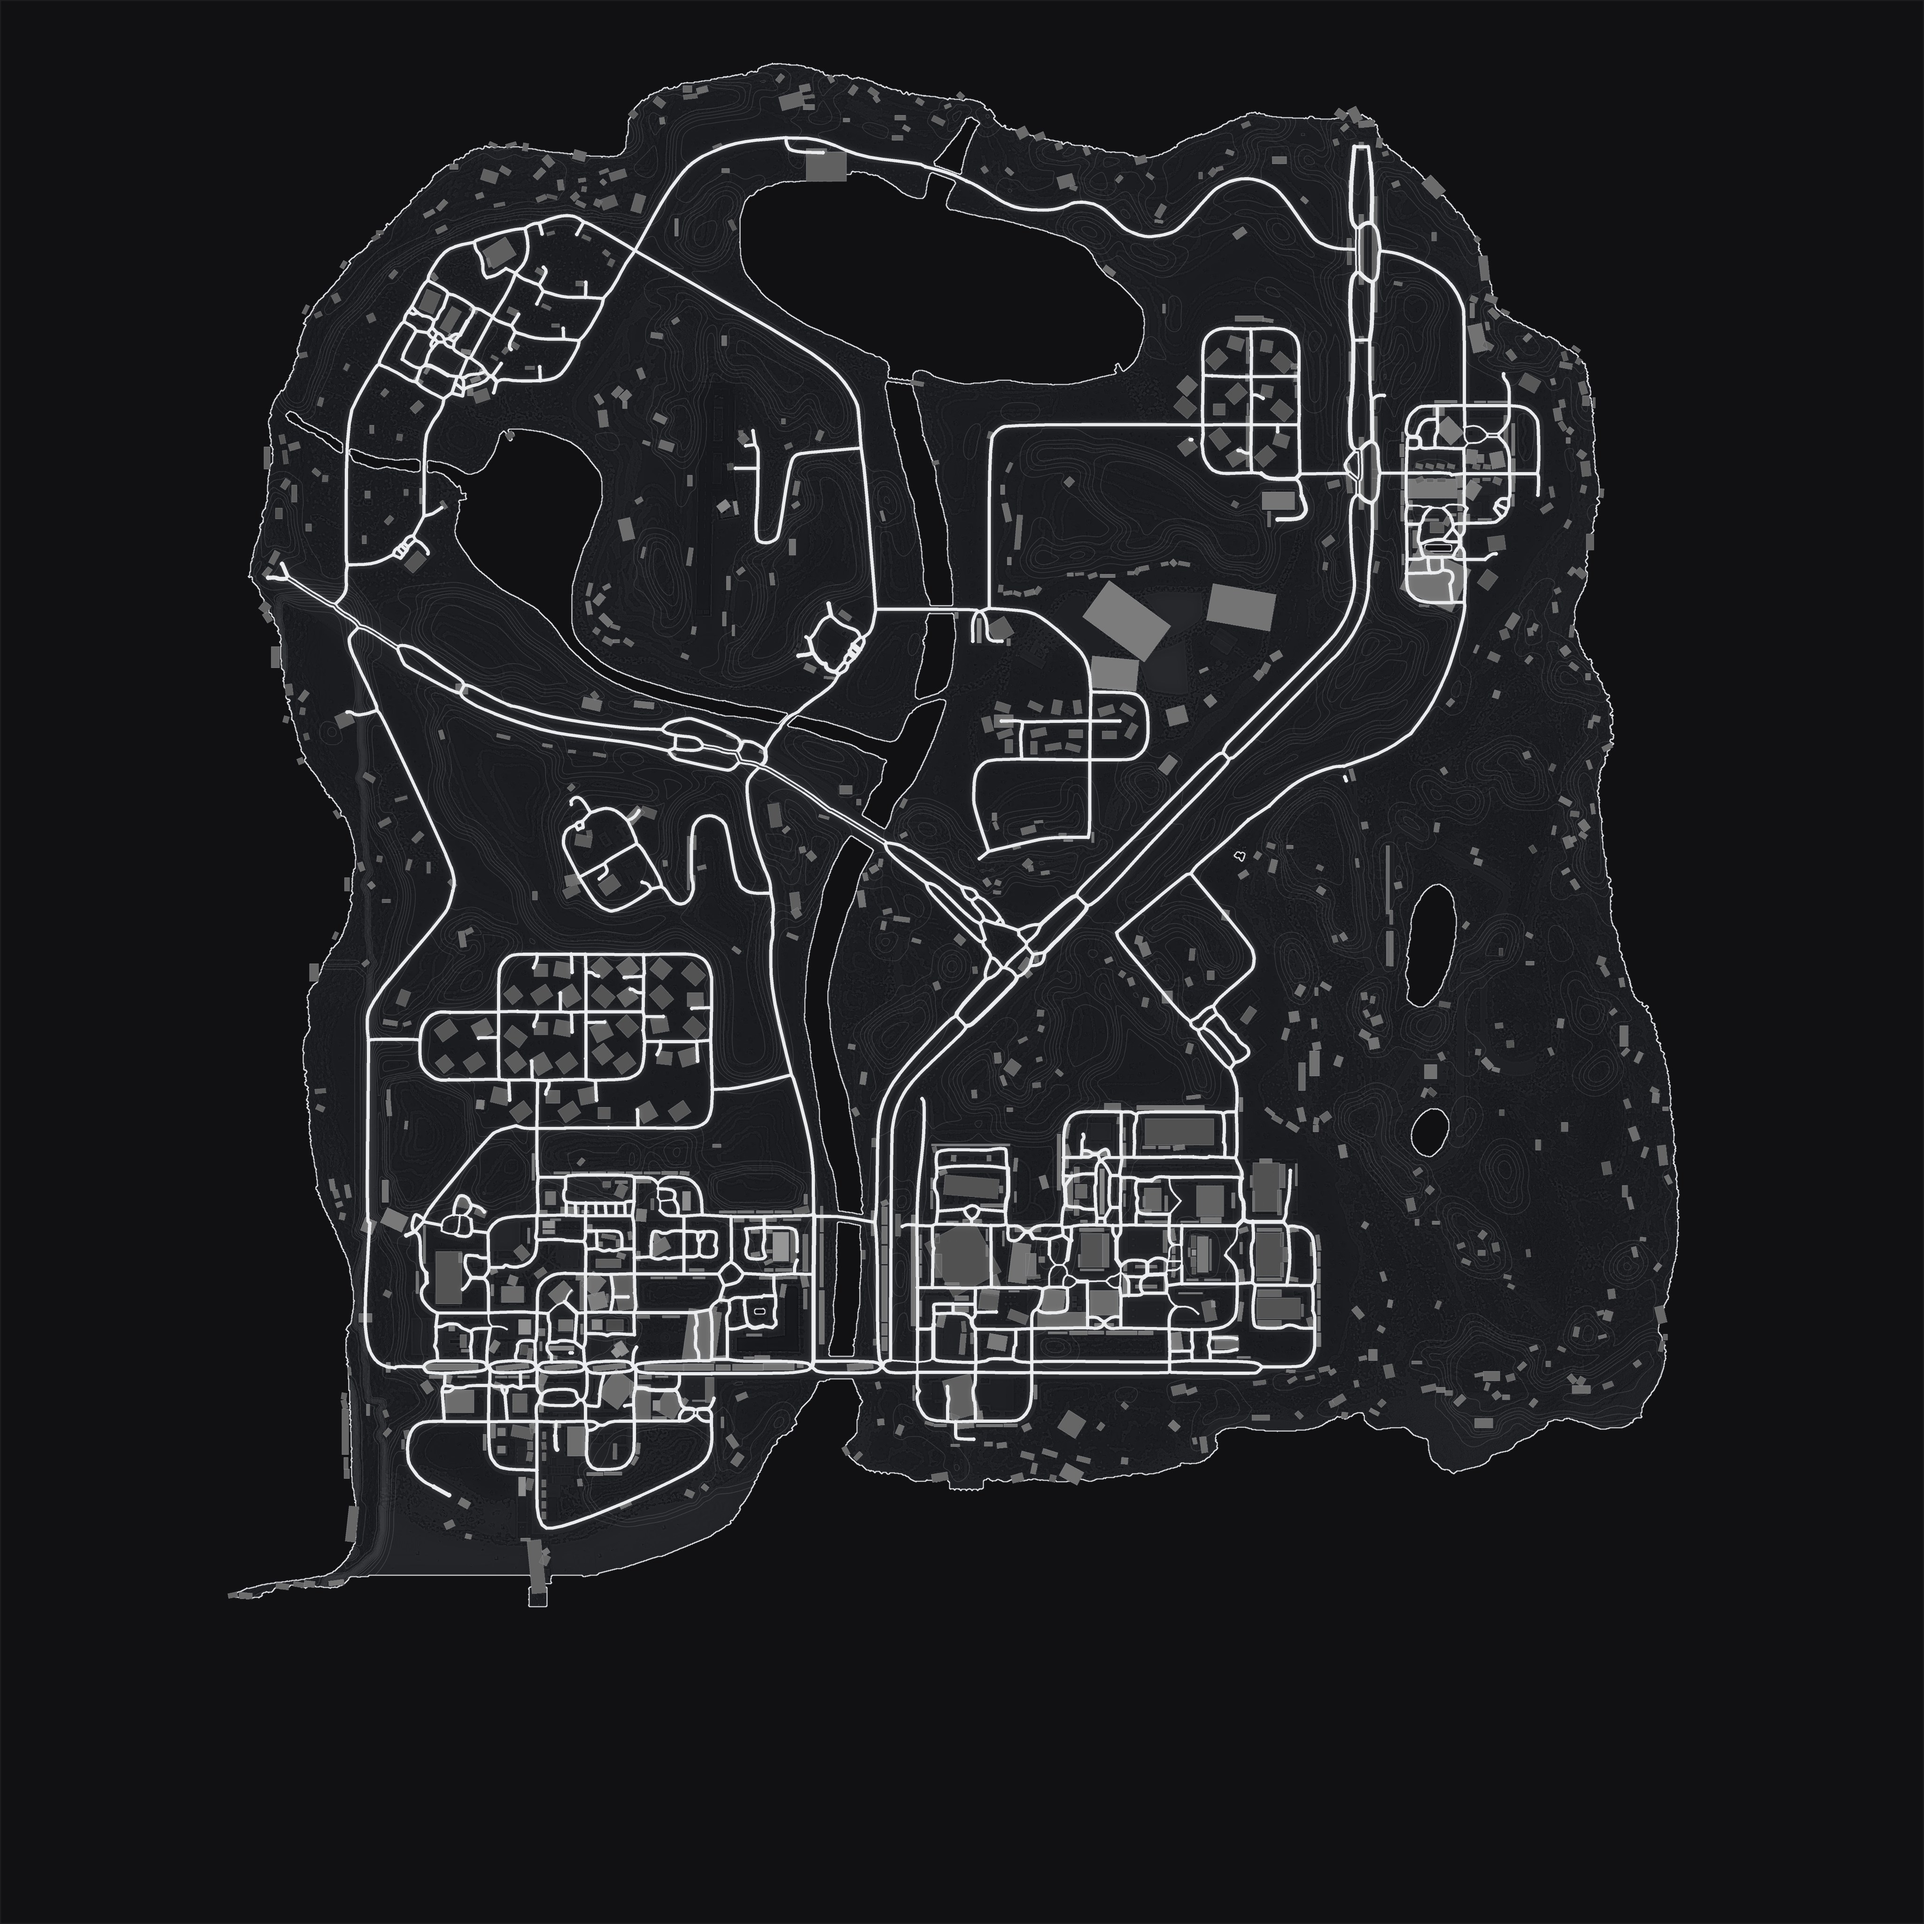
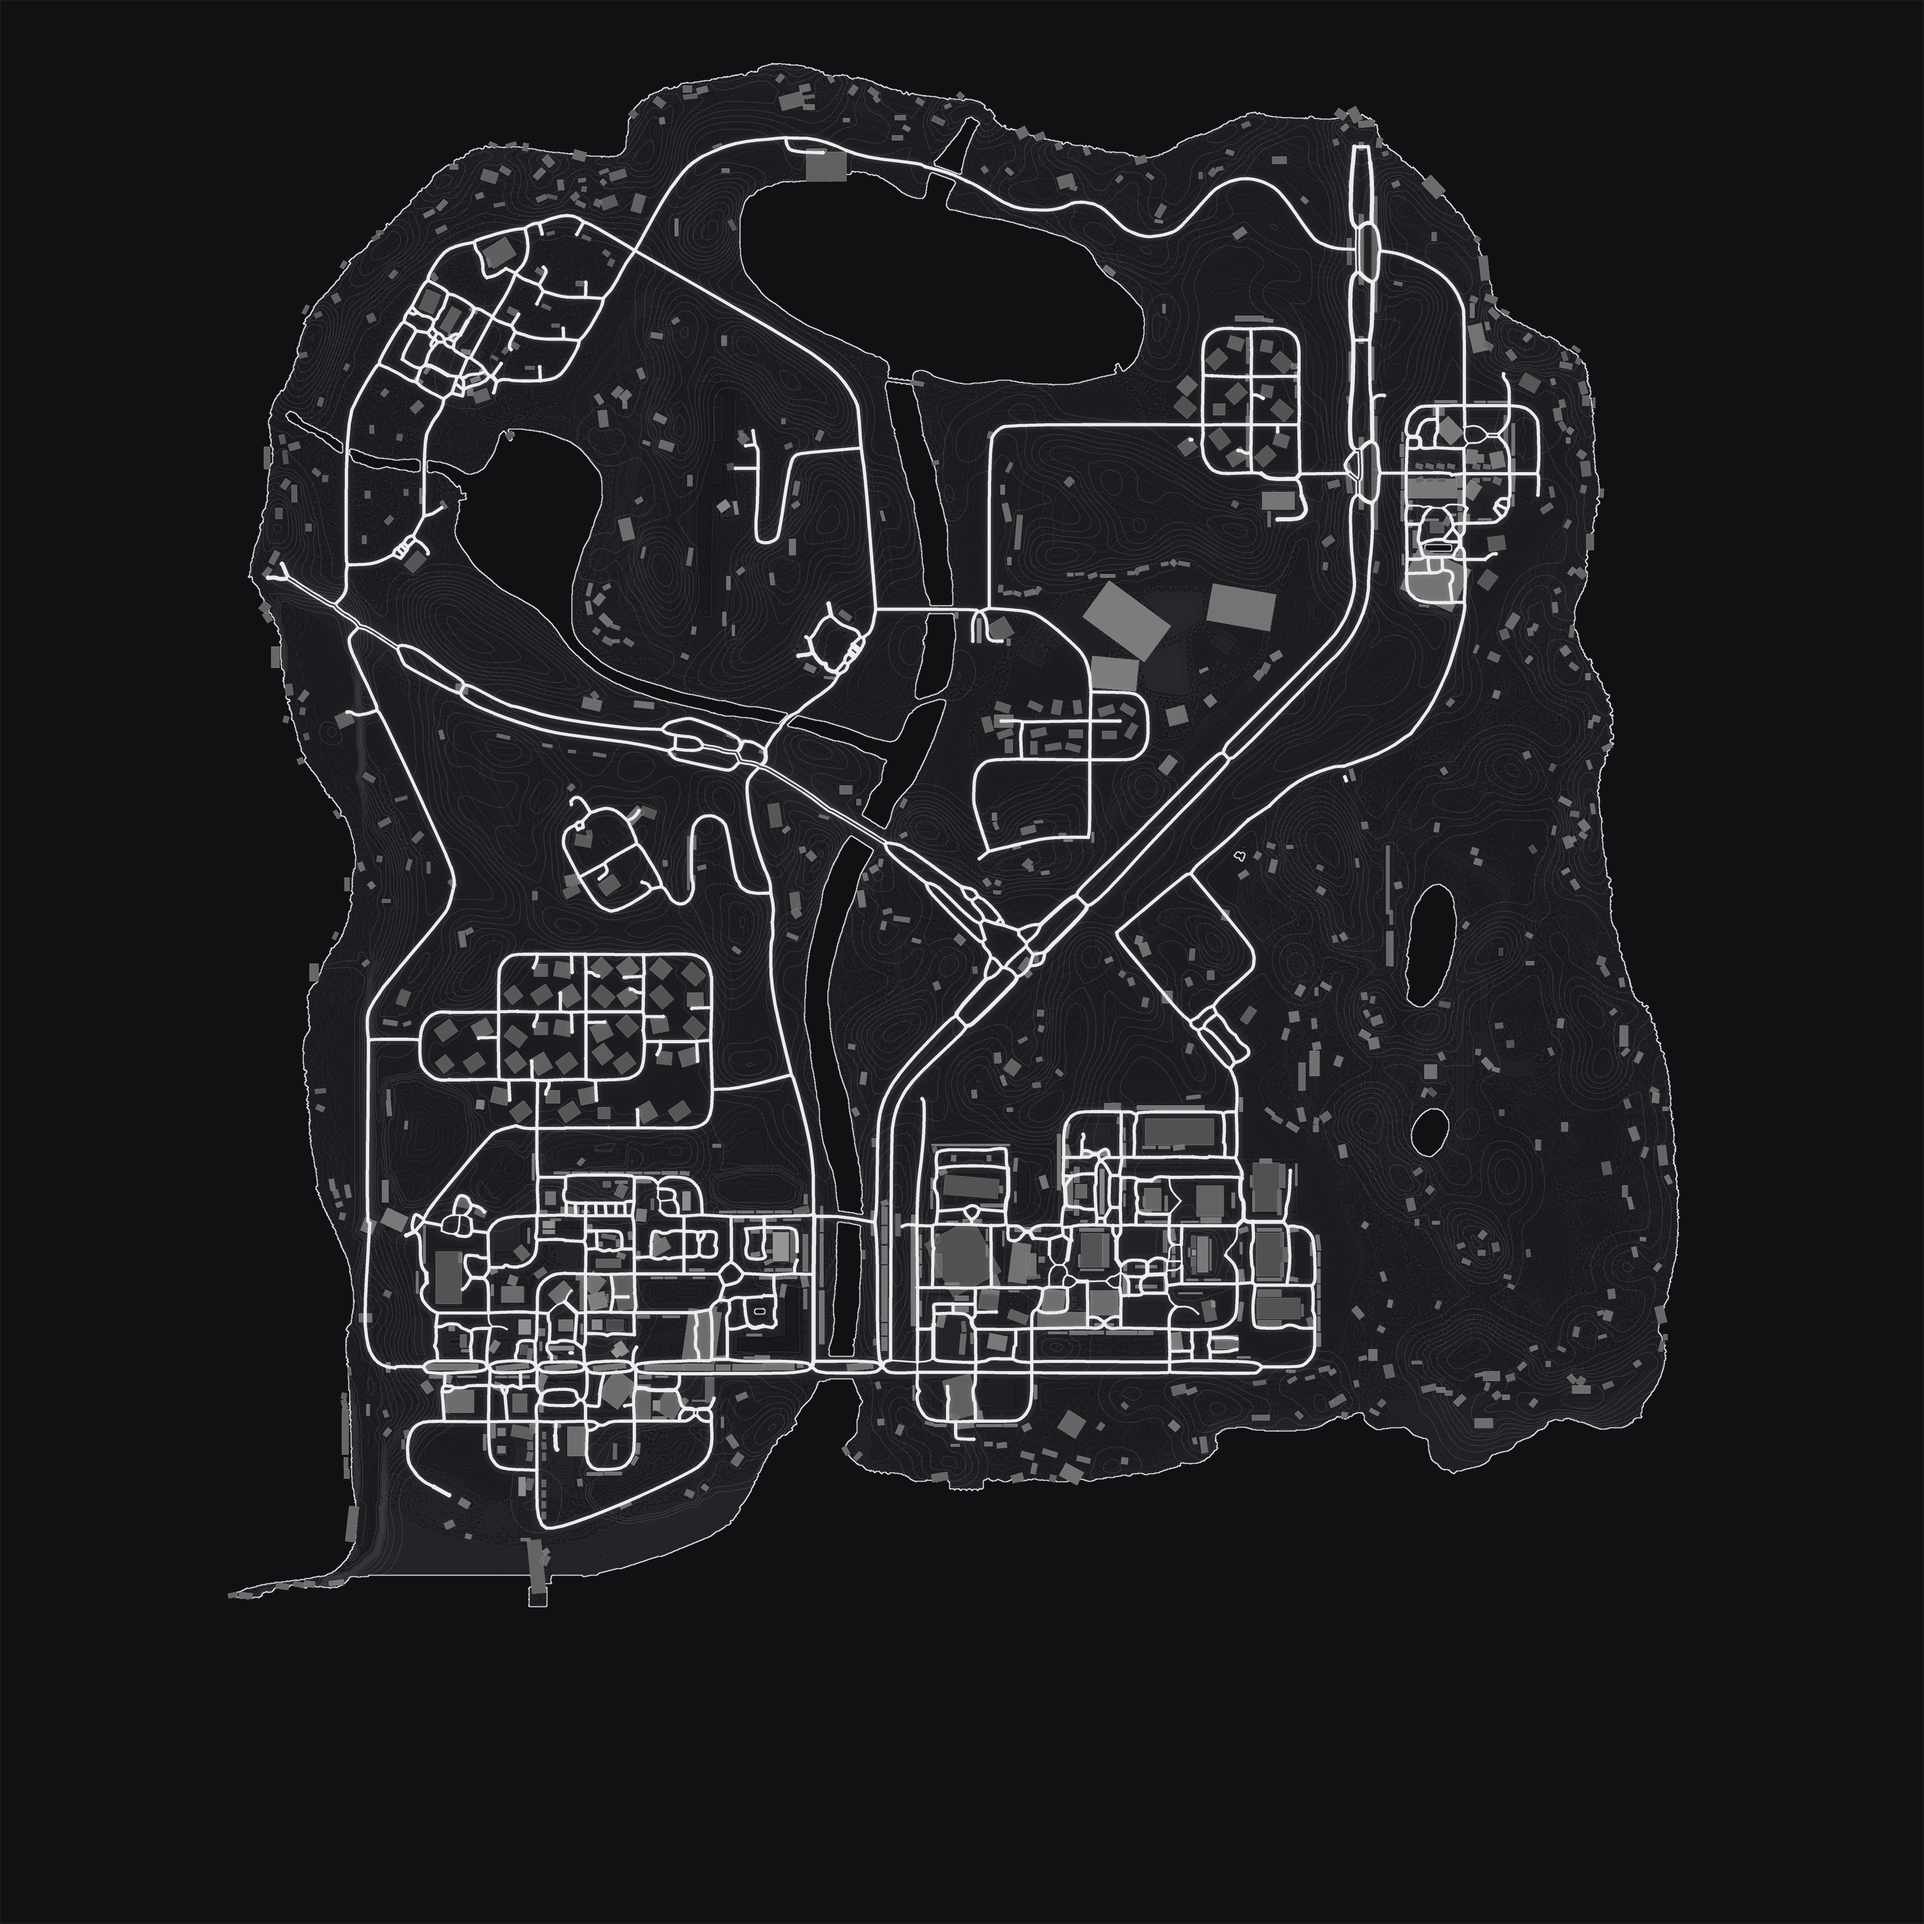
3D terrain from the map's rock ledges: hills where the ledge rings are, hilltops inside them
Each grey rock line on the official map is a ledge; rings nest like contours. ledge-terrain.py turns ledge
density into hills and fills basins so ring interiors become hilltops (rivers and lakes stay low), replacing the
guessed region heights. Dark map contours rebuilt to match; flyTo takes an optional camera tilt.

Claude-Session: https://claude.ai/code/session_01C1aya8uT8Zw6d2kYm4aDAx

Changed region(s): [[0.1875, 0.4375, 0.2188, 0.5], [0.1875, 0.7188, 0.2188, 0.75], [0.1875, 0.5312, 0.2188, 0.5625]]

diff --git a/preview/live-map-3d.html b/preview/live-map-3d.html
@@ -4995,7 +4995,8 @@ const frame = () => {
 let active = false;
 const setActive = on => { if (on === active) return; active = on; renderer.setAnimationLoop(on ? frame : null); if (on) { clock.getDelta(); resize(); } };
 let flight = null;
-const flyTo = (x, z, dist = 520, az = 0.9, smooth = false) => { const y = heightAt(x, z); const T = new THREE.Vector3(x, y, z), P = new THREE.Vector3(x + Math.sin(az) * dist * 0.75, y + dist * 0.62, z + Math.cos(az) * dist * 0.75);
+const flyTo = (x, z, dist = 520, az = 0.9, smooth = false, tilt = 0.69) => { const y = heightAt(x, z), hz = Math.cos(tilt) * dist * 0.97, up = Math.sin(tilt) * dist * 0.97;   // tilt: radians above the horizon (0.69 = the usual view)
+  const T = new THREE.Vector3(x, y, z), P = new THREE.Vector3(x + Math.sin(az) * hz, y + up, z + Math.cos(az) * hz);
   if (!smooth) { controls.target.copy(T); camera.position.copy(P); controls.update(); return; }
   follow = false; flight = { t0: performance.now(), ms: 900, T0: controls.target.clone(), P0: camera.position.clone(), T, P }; };
 const rayc = new THREE.Raycaster(), ndc = new THREE.Vector2();

diff --git a/preview/live-map-3d.src.js b/preview/live-map-3d.src.js
@@ -357,7 +357,8 @@ const frame = () => {
 let active = false;
 const setActive = on => { if (on === active) return; active = on; renderer.setAnimationLoop(on ? frame : null); if (on) { clock.getDelta(); resize(); } };
 let flight = null;
-const flyTo = (x, z, dist = 520, az = 0.9, smooth = false) => { const y = heightAt(x, z); const T = new THREE.Vector3(x, y, z), P = new THREE.Vector3(x + Math.sin(az) * dist * 0.75, y + dist * 0.62, z + Math.cos(az) * dist * 0.75);
+const flyTo = (x, z, dist = 520, az = 0.9, smooth = false, tilt = 0.69) => { const y = heightAt(x, z), hz = Math.cos(tilt) * dist * 0.97, up = Math.sin(tilt) * dist * 0.97;   // tilt: radians above the horizon (0.69 = the usual view)
+  const T = new THREE.Vector3(x, y, z), P = new THREE.Vector3(x + Math.sin(az) * hz, y + up, z + Math.cos(az) * hz);
   if (!smooth) { controls.target.copy(T); camera.position.copy(P); controls.update(); return; }
   follow = false; flight = { t0: performance.now(), ms: 900, T0: controls.target.clone(), P0: camera.position.clone(), T, P }; };
 const rayc = new THREE.Raycaster(), ndc = new THREE.Vector2();

diff --git a/preview/newmap/ledge-terrain.py b/preview/newmap/ledge-terrain.py
@@ -1,0 +1,36 @@
+#!/usr/bin/env python3
+"""Terrain from the rock ledges on the official map.
+
+    python3 ledge-terrain.py <masks.npy> <out.png> [peak_units]
+
+On ER:LC's map every grey rock line is a ledge where the ground steps up, and the ledges nest like contour lines:
+a hill is a cluster of rings, its top the area inside the innermost ring. So:
+  1. ledge lines are thinned to one pixel, so a thick rock patch counts like a single ledge;
+  2. smoothing them gives how many ledges are around each point: high on hillsides, low on open flat land;
+  3. basins are filled (as with real elevation data): ground ringed by higher ground that doesn't drain to the sea or
+     a river rises to the rim, so the inside of a ring becomes the hilltop, and rivers and lakes stay low;
+  4. scaled so the top 1% of land is at `peak_units` (default 22 units, ~77 studs).
+Output is 16-bit in red (high byte) + green (low byte) over 150 units; tame-terrain.py then adds the photo-measured
+features, smooth roads and building pads.
+"""
+import sys, numpy as np
+from PIL import Image
+from scipy import ndimage as ndi
+from skimage.morphology import skeletonize, reconstruction
+
+MASKS, OUT = sys.argv[1], sys.argv[2]; PEAK = float(sys.argv[3]) if len(sys.argv) > 3 else 22.0
+HMAX, SPREAD = 150.0, 14.0                                  # SPREAD: how far (units) a ledge lifts the ground around it
+sea, water, land, rock, road = np.load(MASKS).astype(bool); N = sea.shape[0]; upx = 2000 / N
+
+lines = skeletonize(ndi.binary_closing(rock, iterations=1) & land).astype(np.float32)
+h = ndi.gaussian_filter(lines, SPREAD / upx); h = ndi.gaussian_filter(h, SPREAD / upx * 0.6)
+h = h / np.percentile(h[land], 99) * PEAK
+h = np.where(sea, 0, h); h[water & ~sea] = np.minimum(h[water & ~sea], 0.5)
+outlet = sea | water; outlet[0, :] = outlet[-1, :] = outlet[:, 0] = outlet[:, -1] = True
+h = reconstruction(np.where(outlet, h, h.max()), h, method='erosion')        # fill basins: ring interiors become hilltops
+h = ndi.gaussian_filter(h, 1.5); h[sea] = 0
+
+h = np.asarray(Image.fromarray(h.astype(np.float32)).resize((1024, 1024), Image.BILINEAR))
+q = (np.clip(h / HMAX, 0, 1) * 65535).round().astype(np.uint32)
+Image.fromarray(np.stack([(q >> 8).astype(np.uint8), (q & 255).astype(np.uint8), np.zeros(q.shape, np.uint8)], -1), 'RGB').save(OUT)
+print(f'max {h.max():.1f} units, median land {np.median(h[h > 0.3]):.1f}')

diff --git a/preview/newmap/tame-terrain.py b/preview/newmap/tame-terrain.py
@@ -2,11 +2,11 @@
 """Make the 3D terrain look like Liberty County in game: rolling hills at real heights, flat lots under buildings,
 roads that don't climb cliffs.
 
-    python3 tame-terrain.py <current height png> <masks.npy> <out png>
+    python3 tame-terrain.py <height png from ledge-terrain.py> <masks.npy> <out png>
 
 The generated heightmap (build-heightmap.py) guesses hill heights from the rock drawn on the map, which made needle
 peaks up to ~325 studs. Here:
-  1. guessed hills are smoothed and squeezed under ~50 studs, like the photo-measured terraced hills (35-55);
+  1. hills not measured from photos (from ledge-terrain.py) are smoothed and given a soft ceiling;
   2. the photo-measured features in heights.json are put back exactly;
   3. road surfaces are smoothed so roads have gentle grades;
   4. every building in liberty-county-3d.json gets a level pad at the middle height of its footprint.
@@ -19,7 +19,7 @@ from scipy import ndimage as ndi
 
 SRC, MASKS, OUT = sys.argv[1], sys.argv[2], sys.argv[3]
 HERE = os.path.dirname(os.path.abspath(__file__))
-HMAX, W, CAP = 150.0, 2000.0, 14.0          # CAP: the most a guessed hill rises above flat land, in units (14 = 49 studs, like the measured terraced hills)
+HMAX, W, CAP = 150.0, 2000.0, 60.0          # CAP: a soft ceiling for hills not measured from photos, in units (60 = 210 studs)
 cfg = json.load(open(os.path.join(HERE, 'heights.json')))
 S = cfg['stud']; flat = cfg['sea_level_land'] * S
 geo = json.load(open(os.path.join(HERE, '..', 'liberty-county-3d.json')))

diff --git a/preview/newmap/README.md b/preview/newmap/README.md
@@ -7,9 +7,10 @@ Source: the official 5355x5355 map from https://api.erlc.gg/maps/fall_blank.png 
 3. `build-base.py <scratch dir>` – texture (`liberty-county.jpg`), dark-mode map, copies the heightmap
 4. `extract-3d.py <scratch dir>` – building footprints and trees → `liberty-county-3d.json`
 5. `../build-rail.py`, then `../build-3d.py` – regenerate the pages
-6. `tame-terrain.py height-base.png <masks.npy> ../liberty-county-height.png` – rolling hills at measured heights (guessed ones under ~50 studs),
+6a. `ledge-terrain.py <masks.npy> height-ledges.png 30` – hills from the rock ledges: each grey line is a step up, rings nest
+   like contours, basins are filled so ring interiors become hilltops (replaces steps 2 and apply-heights.py)
+6b. `tame-terrain.py height-ledges.png <masks.npy> ../liberty-county-height.png` – rolling hills at measured heights (guessed ones under ~50 studs),
    smooth roads, a level pad under every building; written 16-bit (red = high byte, green = low byte) for `3d.js`.
-   `height-base.png` is the 8-bit heightmap from steps 2 + `apply-heights.py`, kept as the input.
 7. `build-darkmap.py ../liberty-county-darkmode.jpg 4096` – the 2D dark map: white roads (from `roadnet.json`) and coast, grey
    buildings, contour lines every 2.5 units. Run it after step 6 so the contours match the 3D terrain.
 
